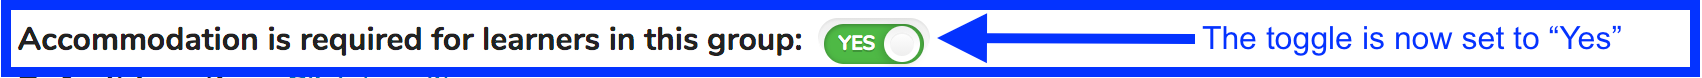
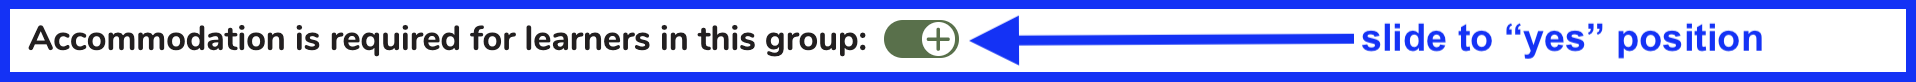
minor text update and updated image yes pos

Changed region(s): [[0.0, 0.2051, 0.9653, 0.8205], [0.0, 0.0, 1.0, 1.0]]

diff --git a/learner-groups/learner-group-defaults.md b/learner-groups/learner-group-defaults.md
@@ -83,9 +83,9 @@ Initially (before being set), the toggle appears as shown below. The default for
 
 Slide the toggle over to the right by clicking it.
 
-### Set to Yes
+### Slide to Set to Yes
 
-![Needs accommodation - slide to set to "Yes"](../images/learner_group_defaults/needs_accom_set_to_yes.png)
+![needs accommodation - slide to set to "Yes"](../images/learner_group_defaults/needs_accom_set_to_yes.png)
 
 You can review and verify which learner groups have had this value set. Refer to the arrows in the screen shot below.
 
